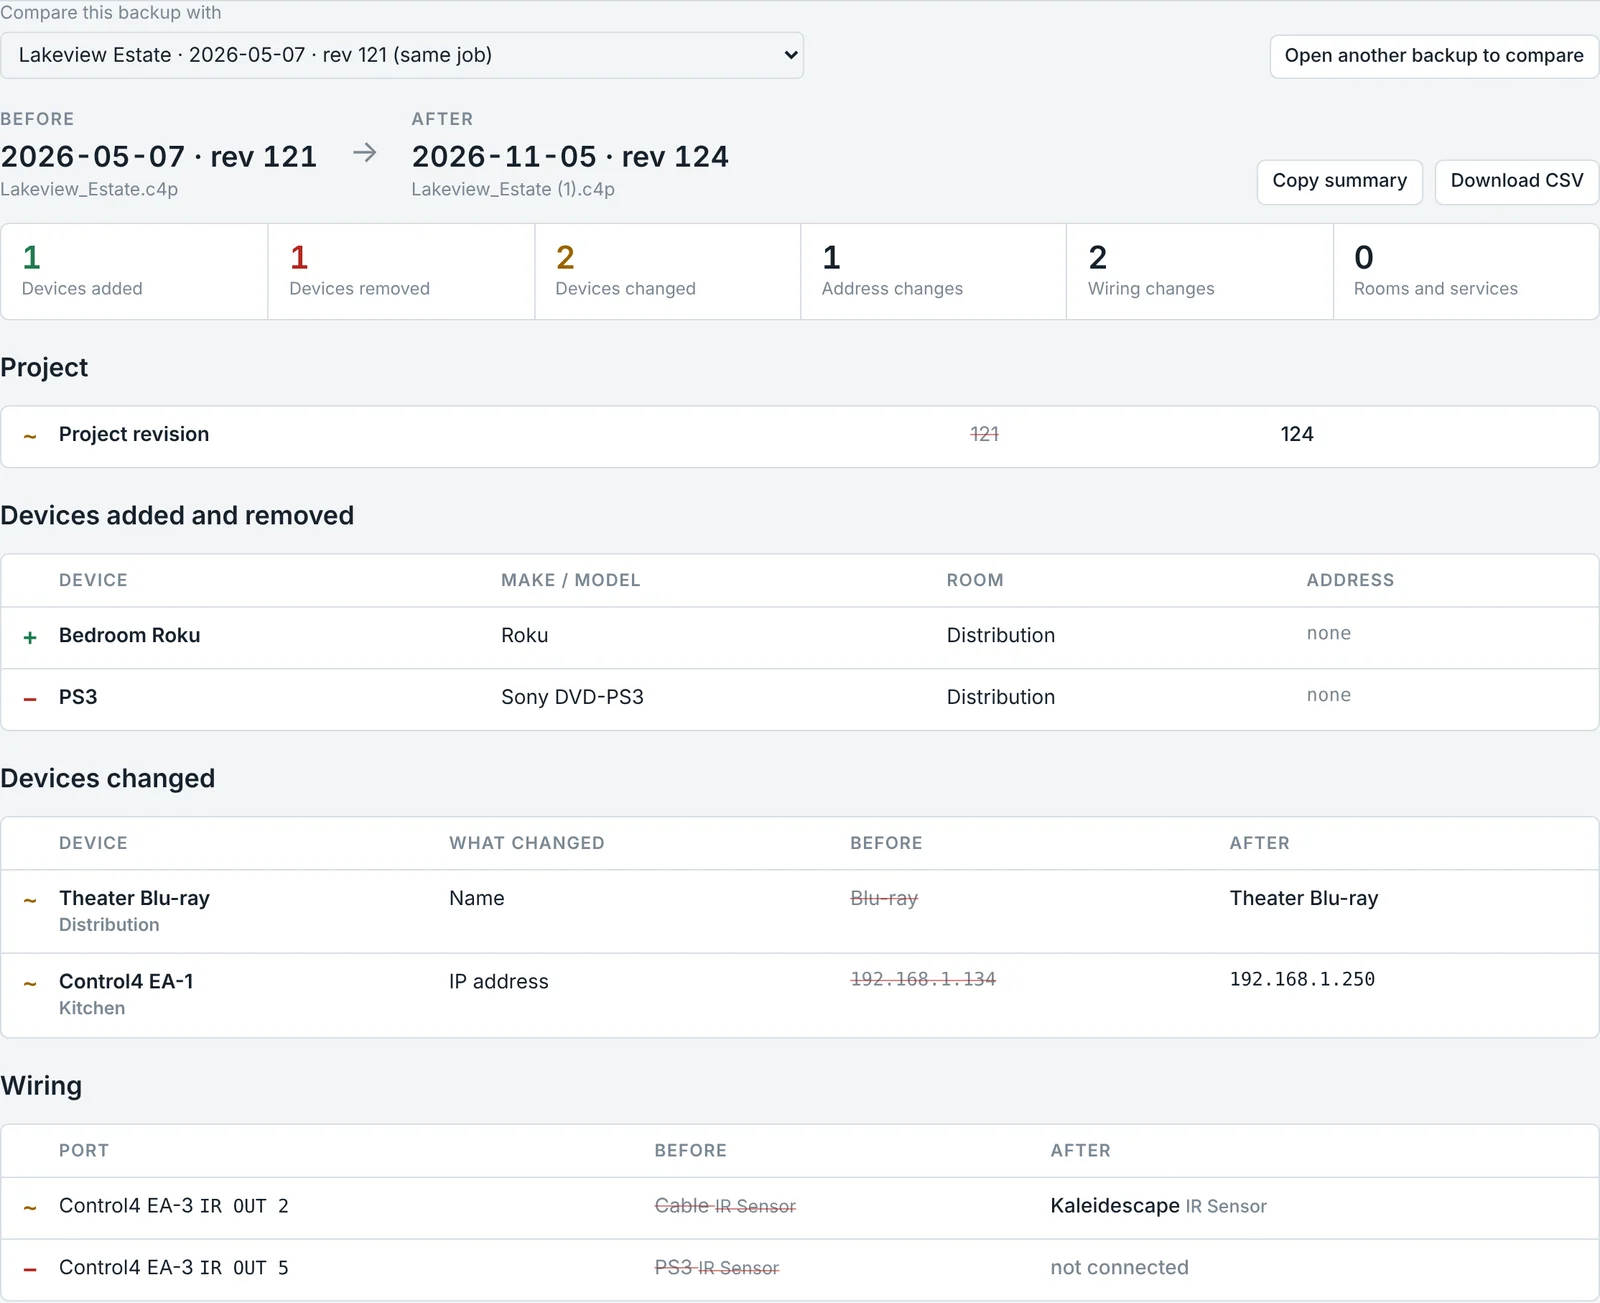
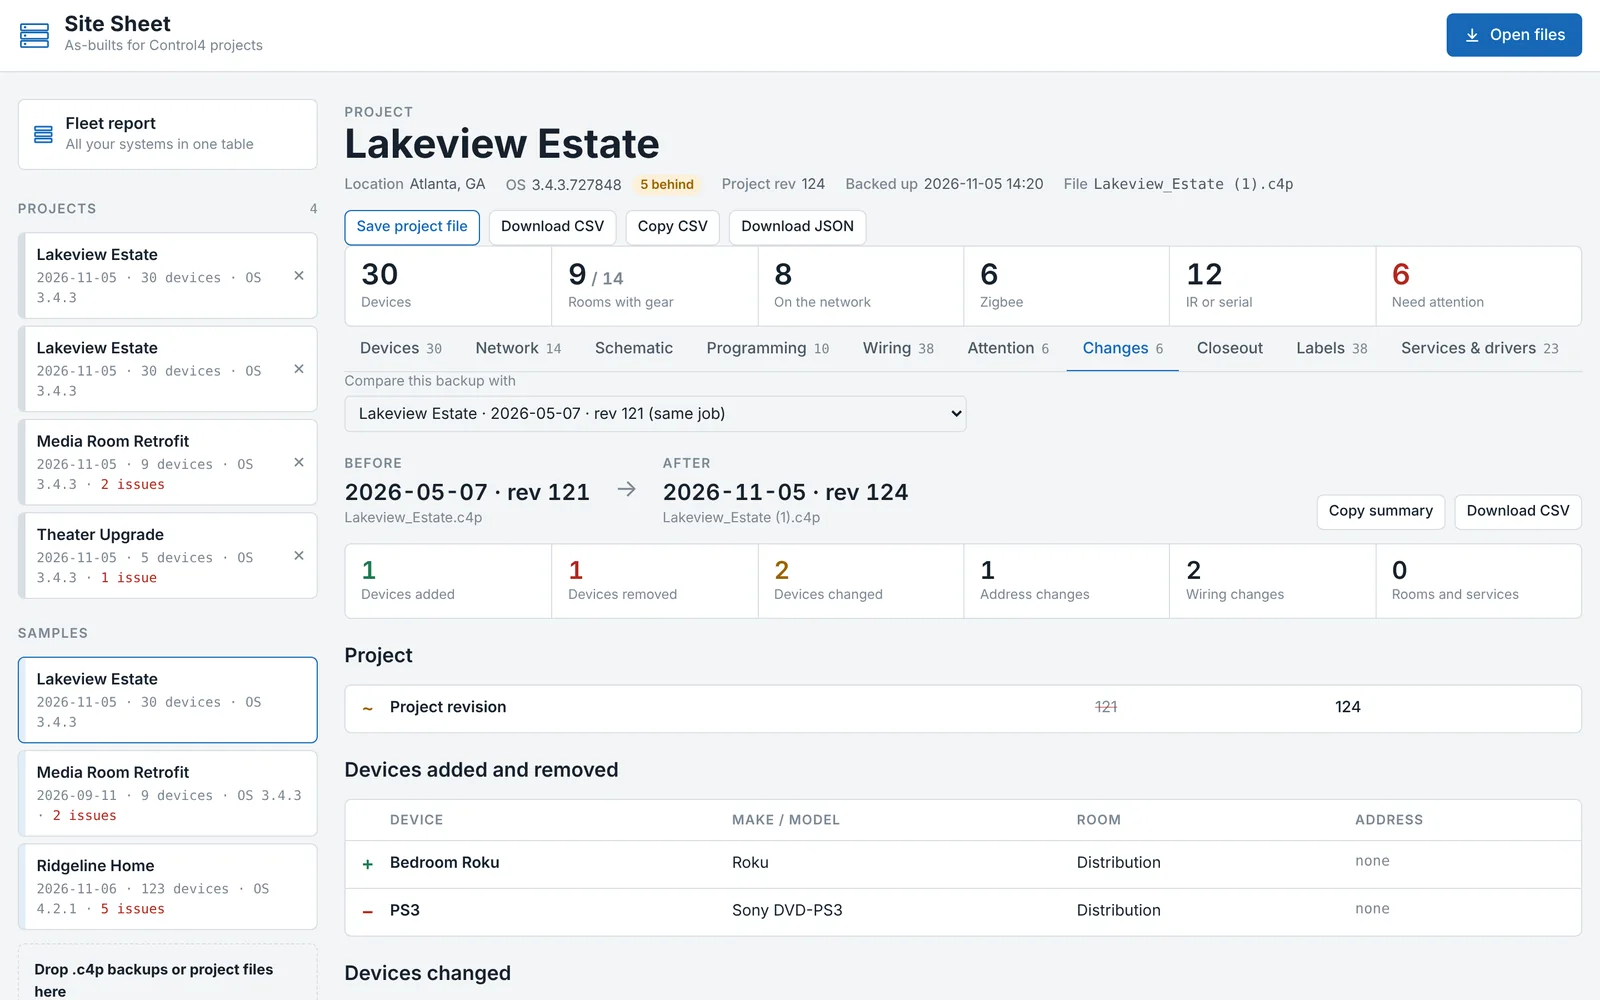
Site Sheet: landing page with new features and screenshots
Claude-Session: https://claude.ai/code/session_01L5wNn92RcmXhBswxW3ENKs

diff --git a/site-sheet/index.html b/site-sheet/index.html
@@ -25,11 +25,11 @@
     <nav class="nav-links" aria-label="Page">
       <a href="#schematic">Schematic</a>
       <a href="#programming">Programming</a>
-      <a href="#compare">Compare</a>
-      <a href="#inventory">Inventory</a>
+      <a href="#fleet">Fleet</a>
+      <a href="#network">OvrC</a>
+      <a href="#labels">Labels</a>
       <a href="#closeout">Closeout</a>
       <a href="#download">Download</a>
-      <a href="https://github.com/tjdoolittle/control-4-application">GitHub</a>
     </nav>
   </div>
 </header>
@@ -39,10 +39,10 @@
     <div class="wrap hero-text">
       <p class="eyebrow">For Control4 dealers and programmers</p>
       <h1><span>Open a project backup.</span> <span>Get the as-built.</span></h1>
-      <p class="lede">Site Sheet reads a Composer <span class="mono">.c4p</span> file and lays out every device, port and wire in the system: a signal-flow schematic, an inventory by room, the IR and serial map, the network sheet, the programming, a list of what's broken, and a closeout packet ready to print.</p>
+      <p class="lede">Site Sheet reads a Composer <span class="mono">.c4p</span> file and lays out every device, port and wire in the system: a signal-flow schematic, an inventory by room, the programming, what's broken and what's due for an upgrade, the network merged with OvrC, cable labels, and a closeout packet ready to print. Then it puts every client system in one table.</p>
       <div class="cta">
         <a class="btn btn-primary" href="app/">Open the web app</a>
-        <a class="btn" href="downloads/SiteSheet-win_x64.exe" download>Download for Windows <span class="btn-note">2.7 MB</span></a>
+        <a class="btn" href="downloads/SiteSheet-win_x64.exe" download>Download for Windows <span class="btn-note">3 MB</span></a>
       </div>
       <p class="fine">Free. Backups are read on your computer and never uploaded.</p>
     </div>
@@ -57,7 +57,7 @@
 
   <section class="facts wrap" aria-label="What it reads">
     <div class="fact"><span class="fact-k">Reads</span><span class="fact-v">project.xml, every bundled <span class="mono">.c4i</span> and <span class="mono">.c4z</span> driver, and the backup manifest</span></div>
-    <div class="fact"><span class="fact-k">Tested on</span><span class="fact-v">Director OS 3.4 and 4.2 projects, from a single media room to a whole-house MoIP system</span></div>
+    <div class="fact"><span class="fact-k">Tested on</span><span class="fact-v">OS 3.4 and 4.2 jobs from 5 to 123 devices, with the programming checked line by line against Composer's own printouts</span></div>
     <div class="fact"><span class="fact-k">Speed</span><span class="fact-v">Under a second for a 30 MB backup</span></div>
   </section>
 
@@ -92,24 +92,24 @@
     </figure>
   </section>
 
-  <section id="programming" class="feature feature-flip wrap">
+  <section id="programming" class="feature wrap">
     <div class="feature-text">
       <p class="eyebrow">Programming</p>
       <h2>What every button and event does</h2>
       <p>The <b>Programming</b> tab reads the project's programming without opening Composer: each event and the lines it runs, nested conditionals included, plus lighting scenes with levels and ramp times, keypad buttons with their behaviors and LED colors, timers, custom buttons and variables.</p>
       <ul class="ticks">
+        <li>Reads the way Composer prints it: <i>When Left KP Button 5 button is pushed</i>, <i>When command 'Red Button' is received</i>, checked line by line against Composer's own printouts</li>
+        <li>Keypad buttons, dimmer taps, remote and room commands, timers and scheduled events all named, not left as event numbers</li>
         <li>Pick a device to see every event and scene that touches it</li>
-        <li>Device and scene names fill in where Composer stores only an ID</li>
-        <li>Room events have no names in a backup: name one once and it reads that way in every project</li>
       </ul>
     </div>
     <figure class="shot">
       <img src="assets/screenshots/programming.webp" width="1600" height="1500" loading="lazy" alt="Programming tab: events grouped by room with the actions each one runs, such as activating the Play Movie lighting scene, and the two lighting scenes with their levels and ramp times.">
-      <figcaption>A media room's events, scenes and custom buttons, read straight from its backup.</figcaption>
+      <figcaption>A media room's remote commands, room events and lighting scenes, read straight from its backup.</figcaption>
     </figure>
   </section>
 
-  <section id="compare" class="feature wrap">
+  <section id="compare" class="feature feature-flip wrap">
     <div class="feature-text">
       <p class="eyebrow">Compare</p>
       <h2>What changed since the last visit</h2>
@@ -121,33 +121,92 @@
       </ul>
     </div>
     <figure class="shot">
-      <img src="assets/screenshots/changes.webp" width="1600" height="1303" loading="lazy" alt="Changes between two backups of one project: one device added, one removed, a renamed Blu-ray, a controller whose IP moved, and an IR output rebound from the cable box to the Kaleidescape.">
-      <figcaption>Two backups of one job, six months apart. Example changes, names altered.</figcaption>
+      <img src="assets/screenshots/changes.webp" width="1600" height="1000" loading="lazy" alt="Changes between two backups of one project six months apart: one device added, one removed, two changed, an address change and two wiring changes.">
+      <figcaption>Two backups of one job, six months apart. Names changed for privacy.</figcaption>
     </figure>
   </section>
 
-  <section id="inventory" class="feature feature-flip wrap">
+  <section id="fleet" class="feature wrap">
+    <div class="feature-text">
+      <p class="eyebrow">Fleet report</p>
+      <h2>Every client system in one table</h2>
+      <p>Drop in every backup you have, or pick the folder that holds your job folders, and the <b>Fleet report</b> gives you one row per system: OS and how far behind it is, controllers, end-of-life hardware, legacy drivers, open issues and backup age.</p>
+      <ul class="ticks">
+        <li>Sorted by what needs attention first, with filters for OS behind, end-of-life gear, legacy drivers and stale backups</li>
+        <li>OvrC lists dropped in with the backups are matched to their system by MAC address</li>
+        <li>Each backup is summarized and let go, so hundreds of systems fit. Download the table as CSV</li>
+      </ul>
+    </div>
+    <figure class="shot">
+      <img src="assets/screenshots/fleet.webp" width="1800" height="1125" loading="lazy" alt="Fleet report with four systems: totals for systems on OS 3, X4 systems behind, systems with end-of-life gear, legacy drivers and open issues, and a sortable table with each system's OS, controllers, upgrade items, issues and device count.">
+      <figcaption>Four systems, sorted by priority. The one with 13 open issues comes first.</figcaption>
+    </figure>
+  </section>
+
+  <section id="upgrades" class="feature feature-flip wrap">
+    <div class="feature-text">
+      <p class="eyebrow">Upgrades</p>
+      <h2>What's out of date, and what replaces it</h2>
+      <p>Every project opens with an <b>upgrade review</b>: how many releases the OS is behind and the steps to the current X4, controllers past end of life or discontinued with the CORE that replaces each, hardware the next OS drops (T3 touch screens, Gen 1 and Gen 2 lighting), and drivers their makers mark as legacy.</p>
+      <ul class="ticks">
+        <li>Hardware that holds back an upgrade is called out before you quote the OS update</li>
+        <li><b>Copy upgrade list</b> pastes straight into a quote or service ticket</li>
+        <li>An optional <i>Upgrade recommendations</i> page for the client's closeout packet</li>
+      </ul>
+    </div>
+    <figure class="shot">
+      <img src="assets/screenshots/upgrades.webp" width="1800" height="1125" loading="lazy" alt="Upgrade review for an OS 3.4.3 system: five releases behind X4 4.3, two discontinued EA controllers with the CORE 3 and CORE 1 that replace them, and a MoIP driver marked legacy.">
+      <figcaption>An OS 3 system with two EA controllers and a legacy MoIP driver.</figcaption>
+    </figure>
+  </section>
+
+  <section id="network" class="feature wrap">
+    <div class="feature-text">
+      <p class="eyebrow">OvrC and the router</p>
+      <h2>Merge OvrC without listing anything twice</h2>
+      <p>Click <b>Add OvrC list</b> on any project and drop in the site's OvrC device export. Devices are matched by MAC, then by IP, each only once: Composer devices pick up their live status and addresses, the switches and access points Composer doesn't know about are added, and anything that could be two devices waits for you to decide.</p>
+      <ul class="ticks">
+        <li>Phones and laptops stay out unless you ask for them</li>
+        <li>A <b>DHCP reservation list</b> of every IP and MAC pair, with conflicts flagged, ready for the router</li>
+        <li>Export as a table to type in, CSV, or config for dnsmasq, pfSense or MikroTik</li>
+      </ul>
+    </div>
+    <figure class="shot">
+      <img src="assets/screenshots/network.webp" width="1800" height="1125" loading="lazy" alt="Network tab with an OvrC list merged: 69 OvrC devices, 21 matched to Control4 devices (9 by MAC, 12 by IP), 39 added as network devices, and 3 that need a decision with a choice for each.">
+      <figcaption>69 OvrC devices: 21 matched, 39 added, 3 waiting on a decision.</figcaption>
+    </figure>
+  </section>
+
+  <section id="labels" class="feature feature-flip wrap">
+    <div class="feature-text">
+      <p class="eyebrow">Labels</p>
+      <h2>Cable labels and a QR code for the rack</h2>
+      <p>The <b>Labels</b> tab numbers every cable, from Composer and from the wires you drew, and prints labels for both ends on Avery 5160 or 5167 sheets, or sends a CSV to a Brother or DYMO label printer.</p>
+      <p>It also prints a <b>QR sticker</b> for the inside of the rack. Scanning it opens the system's controllers, network gear and IP devices by room on any phone, with tap-to-open addresses and your phone number. There's no app, no account and no database: the list rides inside the QR code itself, and an optional PIN encrypts it.</p>
+    </div>
+    <figure class="shot">
+      <img src="assets/screenshots/labels.webp" width="1800" height="1125" loading="lazy" alt="Labels tab: a rack sticker QR code with 34 of 63 devices fitting on a 2 inch sticker, the installer's name and phone, and the cable list numbered W01 to W23 with a preview of the Avery label sheet.">
+      <figcaption>A 2 inch rack sticker and 23 cables ready to print.</figcaption>
+    </figure>
+  </section>
+
+  <section id="inventory" class="feature wrap">
     <div class="feature-text">
       <p class="eyebrow">Inventory</p>
       <h2>Every device, room by room</h2>
       <p>Make, model, control method, IP or Zigbee ID, MAC, firmware and driver version for each piece of hardware, grouped by floor and room. Dimmers show their load name, so you see <i>Hall Pendants</i> instead of a row of identical <i>Adaptive Phase Dimmer</i>.</p>
       <p>Search by anything (an IP, a MAC, a model number) and filter by category or control type. Export to CSV for Excel or Google Sheets.</p>
-      <p>Every service call starts with an <b>upgrade review</b>: how far the OS is behind, controllers past end of life with the CORE that replaces each, hardware the next OS drops, and drivers marked legacy. Copy it straight into a quote.</p>
-      <p>Add the site's <b>OvrC device list</b> and it merges in without doubling anything up: devices are matched by MAC, then by IP, each only once. Composer devices pick up their live status and addresses, the switches and access points Composer doesn't know about are added, and anything ambiguous waits for you to decide.</p>
-      <p>The <b>fleet report</b> takes every backup you have, or a whole folder of job folders, and gives you one table across all your clients: OS and how far behind it is, controllers, end-of-life gear, legacy drivers and open issues, sorted by what needs attention first.</p>
-      <p>Print <b>cable labels</b> for every wire on Avery sheets or a label printer, and a <b>QR sticker</b> for the rack that opens the system's devices and addresses on any phone. No app and no account: the data rides in the QR code itself.</p>
-      <p>The <b>DHCP reservation list</b> pulls every IP and MAC pair from Composer and OvrC, flags conflicts, and exports it for the router: a table to type in, CSV, or a config for dnsmasq, pfSense or MikroTik.</p>
     </div>
     <figure class="shot">
       <img src="assets/screenshots/devices.webp" width="1800" height="1125" loading="lazy" alt="Device inventory grouped by room, with columns for device, make and model, control type badge, address, MAC and version, and summary counts across the top.">
     </figure>
   </section>
 
-  <section id="closeout" class="feature wrap">
+  <section id="closeout" class="feature feature-flip wrap">
     <div class="feature-text">
       <p class="eyebrow">Closeout</p>
       <h2>A finished as-built to hand the client</h2>
-      <p>The <b>Closeout</b> tab builds a print-ready packet from the project: a cover with your company, logo and service contact, a system overview with your notes, the schematic on its own landscape page, then inventory by room, wiring, network, open issues, changes since the last backup, and a sign-off page.</p>
+      <p>The <b>Closeout</b> tab builds a print-ready packet from the project: a cover with your company, logo and service contact, a system overview with your notes, the schematic on its own landscape page, then inventory by room, wiring, network, programming, open issues, upgrade recommendations, changes since the last backup, and a sign-off page.</p>
       <ul class="ticks">
         <li>Pick which sections to include. US Letter or A4</li>
         <li>The schematic prints with the layout you arranged and the wires you added</li>
@@ -166,12 +225,12 @@
       <figcaption><b>Wiring list.</b> Every IR emitter and serial run by port, and every source output with the input it feeds. The page to print for a service call.</figcaption>
     </figure>
     <figure class="tile">
-      <img src="assets/screenshots/network.webp" width="1800" height="1125" loading="lazy" alt="Network sheet listing IP devices in address order with MAC, model and status.">
-      <figcaption><b>Network sheet.</b> IP devices in address order with MACs and status, every Zigbee ID, and IP drivers that were never given an address.</figcaption>
+      <img src="assets/screenshots/dhcp.webp" width="1800" height="1125" loading="lazy" alt="DHCP reservation list: 37 devices sorted by IP address with MAC, host name, device, room and whether the pair came from Composer, OvrC or both.">
+      <figcaption><b>DHCP reservations.</b> Every IP and MAC pair from Composer and OvrC, sorted by address, with conflicts and randomized MACs set aside.</figcaption>
     </figure>
     <figure class="tile">
-      <img src="assets/screenshots/attention.webp" width="1600" height="622" loading="lazy" alt="Attention list showing two devices reported offline and one IP driver with no address set.">
-      <figcaption><b>Attention list.</b> Devices offline when the backup was taken, duplicate IPs, and IR or serial drivers with no port bound.</figcaption>
+      <img src="assets/screenshots/label-sheet.webp" width="1600" height="869" loading="lazy" alt="A printed sheet of cable labels: each shows the cable number and type, the device and port it starts at, and the device and port it runs to.">
+      <figcaption><b>Cable labels.</b> One for each end: the cable number, where it starts and where it runs, printed to scale on Avery sheets.</figcaption>
     </figure>
   </section>
 
@@ -180,7 +239,7 @@
       <svg viewBox="0 0 24 24" aria-hidden="true"><path d="M12 3 5 6v5c0 4.4 3 8.3 7 9.5 4-1.2 7-5.1 7-9.5V6l-7-3z"/><path d="m9 12 2 2 4-4"/></svg>
       <div>
         <h2>Client files stay on your computer</h2>
-        <p>The backup is opened and parsed inside your browser or the desktop app. Nothing is uploaded, there's no account, and no server ever sees a client's name, address or network. To move a job between computers or hand it to another tech, save it as a project file: one file on your computer with your layout, OvrC matches and notes, and an optional password that encrypts all of it.</p>
+        <p>The backup is opened and parsed inside your browser or the desktop app. Nothing is uploaded, there's no account, and no server ever sees a client's name, address or network. To move a job between computers or hand it to another tech, save it as a project file: one file on your computer with your layout, OvrC matches and notes, and an optional password that encrypts all of it. Even the rack sticker carries its list inside the QR code, not on a server.</p>
       </div>
     </div>
   </section>
@@ -188,7 +247,7 @@
   <section id="download" class="download wrap">
     <div class="download-text">
       <p class="eyebrow">Download</p>
-      <h2>A 2.7 MB Windows app that works offline</h2>
+      <h2>A 3 MB Windows app that works offline</h2>
       <p>One portable file, no installer. It uses the WebView2 engine built into Windows 10 and 11, saves exports through a normal Save dialog, and runs in the truck with no signal.</p>
       <div class="cta">
         <a class="btn btn-primary" href="downloads/SiteSheet-win_x64.exe" download>Download SiteSheet.exe</a>
@@ -198,11 +257,11 @@
     </div>
     <ol class="steps">
       <li><span class="n">1</span><div><b>Back up the project</b><span>In Composer Pro: File → Backup Project. Save the <span class="mono">.c4p</span>.</span></div></li>
-      <li><span class="n">2</span><div><b>Open it in Site Sheet</b><span>Drop one or several backups on the window. Each becomes a project in the list.</span></div></li>
-      <li><span class="n">3</span><div><b>Take the as-built with you</b><span>Export the inventory as CSV and the schematic as SVG, or keep the app on your phone at the rack.</span></div></li>
+      <li><span class="n">2</span><div><b>Open it in Site Sheet</b><span>Drop one or several backups on the window, with the site's OvrC device list if you have it. Each becomes a project in the list.</span></div></li>
+      <li><span class="n">3</span><div><b>Leave the as-built at the rack</b><span>Print the closeout packet, label the cables, and stick the QR code inside the rack so the next tech has it on their phone.</span></div></li>
     </ol>
     <figure class="phone">
-      <img src="assets/screenshots/mobile.webp" width="700" height="1515" loading="lazy" alt="The device inventory on a phone screen.">
+      <img src="assets/screenshots/rack-phone.webp" width="700" height="1515" loading="lazy" alt="The rack card a phone opens from the QR sticker: the system name, OS, the installer with a Call button, a search box, and devices grouped by room with their IP addresses.">
     </figure>
   </section>
 </main>

diff --git a/index.html b/index.html
@@ -95,9 +95,11 @@ try {
           serial run, reads the programming and lighting scenes, and flags gear that was offline
           or never bound. Open two backups of the same
           job to see exactly what changed between visits, merge in the site's OvrC device list
-          without duplicates, and print a closeout packet for the client. Add blocks for what Composer
-          doesn't know about, like the network switch, and wire them in. Backups are parsed in the
-          browser and never uploaded. Also ships as a 2.7&nbsp;MB Windows app that works offline.
+          without duplicates, flag end-of-life controllers and how far the OS is behind, export DHCP
+          reservations, print cable labels and a rack QR sticker that opens on any phone, and print a
+          closeout packet for the client. A fleet report puts every client system in one table.
+          Backups are parsed in the browser and never uploaded. Also ships as a 3&nbsp;MB Windows app
+          that works offline.
         </p>
         <ul class="tags">
           <li>JavaScript</li>
